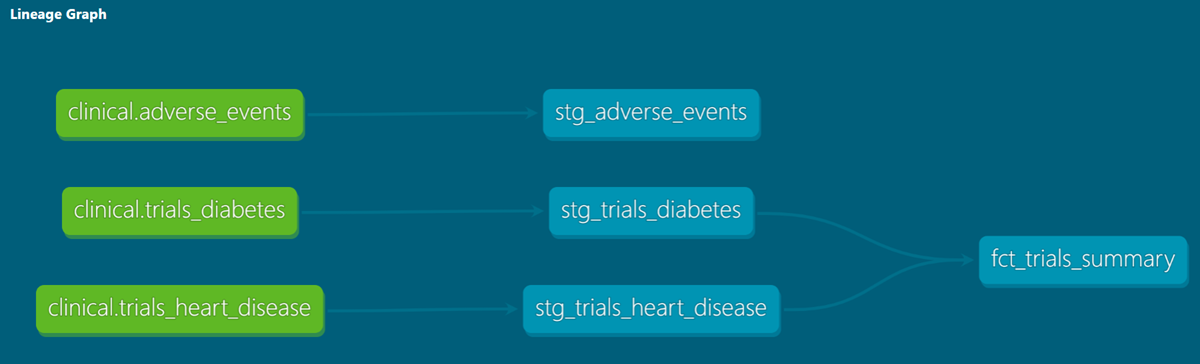
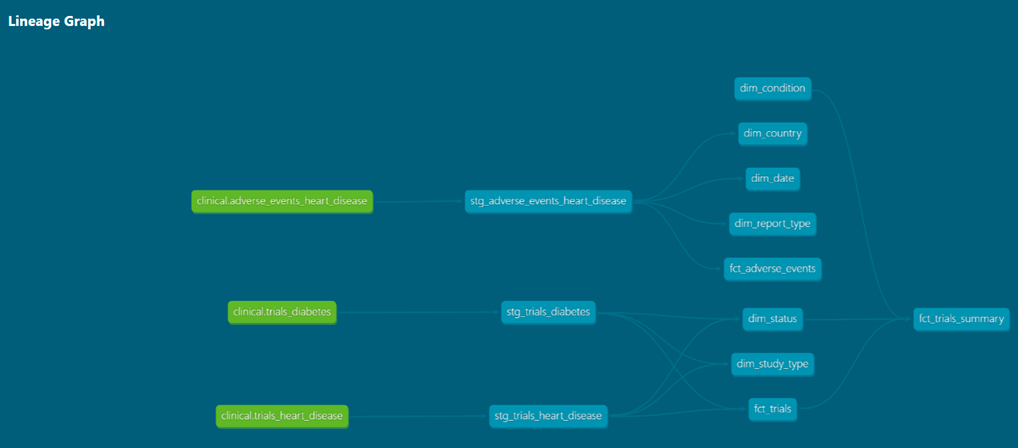
docs: overhaul README to reflect Iceberg lakehouse and both star schemas

diff --git a/README.md b/README.md
@@ -1,6 +1,6 @@
 # Clinical Data Platform
 
-An end-to-end **ELT pipeline** that ingests public clinical-trial and adverse-event data, lands it in **AWS S3**, and transforms it with **dbt** into analytics-ready models — orchestrated with **Airflow**, queried through **Athena**, and provisioned with **Terraform**.
+An end-to-end **ELT pipeline** that ingests public clinical-trial and adverse-event data, lands it in **AWS S3**, and transforms it with **dbt** into two dimensional star schemas on **Apache Iceberg** — orchestrated with **Airflow**, queried through **Athena**, and provisioned with **Terraform**.
 
 > Built as a hands-on data-engineering project. It mirrors a pattern from my background in clinical data management: the cross-source reconciliation and quality checks I used to write by hand are now version-controlled **dbt tests** that run automatically on every build.
 
@@ -21,7 +21,7 @@ flowchart LR
     subgraph Lake["AWS S3 · Data Lake"]
         RAW[("raw/ · JSON<br/>immutable · bronze")]
         STG[("staging/ · Parquet<br/>cleaned · silver")]
-        MART[("marts/ · Parquet<br/>business logic · gold")]
+        MART[("marts/ · Iceberg + Parquet<br/>business logic · gold")]
     end
 
     FET -->|archive raw| RAW
@@ -36,18 +36,29 @@ flowchart LR
 
     subgraph Transform["Transformation · dbt"]
         DSTG[staging models]
-        DMART[marts · fct_trials_summary]
-        ATH --> DSTG --> DMART
+        DIMS[6 dimensions]
+        FCT1[fct_trials · Iceberg]
+        FCT2[fct_adverse_events · Iceberg]
+        AGG[fct_trials_summary]
+        ATH --> DSTG
+        DSTG --> DIMS
+        DSTG --> FCT1
+        DSTG --> FCT2
+        FCT1 --> AGG
+        DIMS --> AGG
     end
 
-    DMART -->|CTAS via dbt| MART
+    DIMS --> MART
+    FCT1 --> MART
+    FCT2 --> MART
+    AGG --> MART
 ```
 
 *Airflow orchestrates the ingestion DAG (fan-in to the Glue crawler). Terraform provisions all AWS infrastructure. GitHub Actions runs CI on every push.*
 
-*S3 + Glue Catalog + Athena together form a **lakehouse-style** architecture: open-format Parquet files in object storage with a SQL/table layer on top — no separate warehouse. (Plain Parquet, not an ACID table format like Iceberg/Delta — see roadmap.)*
+*S3 + Glue Catalog + Athena + **Iceberg** together form a **lakehouse**: open-format files in object storage, a SQL/table layer on top, and ACID table semantics (atomic writes, `MERGE`, snapshot isolation, time travel) on the fact tables — no separate warehouse.*
 
-**Flow:** Python fetchers pull data from the ClinicalTrials.gov and OpenFDA APIs. Each raw response is archived as **JSON in S3 `raw/`** (an immutable, replayable copy), then converted to **Parquet and landed in S3 `staging/`**. A **Glue crawler** catalogs `staging/` into the Glue Data Catalog, so **Athena** can query it via schema-on-read. **dbt** then models the data: a **staging** layer cleans and standardizes each source, and a **marts** layer applies business logic and aggregation, materializing its output back to S3 under `marts/`.
+**Flow:** Python fetchers pull data from the ClinicalTrials.gov and OpenFDA APIs. Each raw response is archived as **JSON in S3 `raw/`** (an immutable, replayable copy), then converted to **Parquet and landed in S3 `staging/`**. A **Glue crawler** catalogs `staging/` into the Glue Data Catalog, so **Athena** can query it via schema-on-read. **dbt** then models the data: a **staging** layer cleans and standardizes each source, and a **marts** layer builds two star schemas plus an aggregate, materializing its output back to S3 under `marts/`.
 
 ---
 
@@ -57,6 +68,7 @@ flowchart LR
 |---|---|
 | Ingestion | Python, `requests`, `boto3` |
 | Storage / Lake | AWS S3 — medallion: `raw/` (JSON), `staging/` + `marts/` (Parquet) |
+| Table format | Apache Iceberg (fact tables) |
 | Catalog / Query | AWS Glue (crawler + Data Catalog), Athena |
 | Transformation | dbt (staging → marts, tests, docs/lineage) |
 | Orchestration | Apache Airflow (Dockerized) |
@@ -70,14 +82,18 @@ flowchart LR
 **Medallion layout in S3.** Three prefixes, each its own layer, kept separate so they never collide:
 - **`raw/` (JSON)** — write-once, immutable source of truth. If a downstream transform breaks or a schema changes, the pipeline can be reprocessed from here without re-calling the APIs (which rate-limit and change over time).
 - **`staging/` (Parquet)** — cleaned, columnar, query-ready. This is the *only* prefix the Glue crawler scans, which keeps the catalog clean (one format per prefix → one table per folder).
-- **`marts/` (Parquet)** — business-logic output (gold). dbt materializes `fct_trials_summary` here as a table via `CREATE TABLE AS SELECT`. The crawler does **not** scan this prefix — dbt registers these tables in the catalog itself, so dbt and the crawler never fight over the same tables.
+- **`marts/` (Iceberg + Parquet)** — business-logic output (gold). dbt writes here and registers the tables in the catalog itself, so dbt and the crawler never fight over the same tables.
 
 **Schema-on-read.** Athena stores nothing. The Glue crawler scans `staging/` and writes table definitions — location, schema, and format — into the Glue Data Catalog. At query time Athena reads the catalog, then reads the Parquet files straight from S3. Nothing is ever loaded into a database.
 
 **dbt transformation.**
 - **Staging** models mirror each raw source one-to-one, flatten nested fields to snake_case, and standardize types. Materialized as **views**. This layer uses dbt `source()`.
-- **Marts** apply business logic. `fct_trials_summary` combines the two trials sources with a `UNION` (they share a schema; no shared key exists for a join) and aggregates trial counts and total enrollment by condition and overall status. Materialized as a **table** written to `marts/`. This layer uses dbt `ref()`.
-- **Tests** (`not_null`, `unique`, `accepted_values`) run on every build across both layers — the automated equivalent of the manual reconciliation checks behind a clinical database lock.
+- **Marts** apply business logic as **two star schemas**, since trials and adverse events share no common key:
+  - **`fct_trials`** — grain is one row per **trial × condition** (a trial studying comorbid conditions legitimately appears twice). Built by `UNION ALL` of the two trials staging models. Conformed to `dim_condition`, `dim_status`, `dim_study_type`.
+  - **`fct_adverse_events`** — grain is one row per **safety report**, with three boolean measures. Conformed to `dim_country` (**role-playing** — joined twice, as reporting country and country of occurrence), `dim_date`, `dim_report_type`.
+  - **`fct_trials_summary`** — an aggregate over `fct_trials`, joined back to `dim_condition` and `dim_status` for labels, giving trial counts and total enrollment.
+- **Materializations** are chosen per model: staging as **views**; both fact tables as **Iceberg incremental `merge`**, so reruns upsert on the unique key instead of duplicating rows; dimensions and the aggregate as plain **tables**, since they rebuild fully and merge semantics would buy nothing.
+- **Tests** run on every build across both layers — `not_null`, `unique`, `accepted_values`, `unique_combination_of_columns` on the composite grain of `fct_trials`, and **`relationships`** foreign-key checks from both fact tables to every dimension. Those last ones are the automated equivalent of the manual reconciliation checks behind a clinical database lock.
 
 **Orchestration.** The Airflow DAG fetches all three sources in parallel, archives raw, converts and uploads to staging, then **fans in** to a single Glue-crawler trigger once all uploads complete.
 
@@ -114,8 +130,8 @@ cd terraform && terraform init && terraform apply
 cd airflow && docker compose up
 
 # dbt (from inside clinical_dbt/, with venv active)
-dbt run
-dbt test
+dbt deps
+dbt build          # run + test
 dbt docs generate && dbt docs serve --port 8081
 ```
 
@@ -124,7 +140,7 @@ dbt docs generate && dbt docs serve --port 8081
 ## Next steps / roadmap
 
 - **Stateless S3 tasks.** The DAG currently passes *local file paths* between tasks, which assumes a shared filesystem (fine on LocalExecutor, but breaks under distributed executors like Celery/Kubernetes). Refactor to write to and read from S3 directly, passing S3 keys so tasks are stateless and portable.
-- **Adverse-events mart.** Build the second star (e.g. counts by country, seriousness rate) — no shared key with trials, so it stands alone.
-- **Stronger CI.** Have GitHub Actions run `dbt build` (compile + run + test) on every push, not just a version check.
-- **Rename the adverse-events prefix/table** to reflect that it is a heart-disease-filtered slice.
-- **ACID table format.** Migrate marts to Apache Iceberg for atomic writes, snapshot isolation, time travel, and safe schema evolution — turning the lakehouse-style setup into a full lakehouse.
+- **Incremental predicates.** The fact models use `incremental` + `merge`, which makes reruns idempotent, but they still re-scan the full source each run. Add `is_incremental()` watermark filters so the scan shrinks as well as the write.
+- **Stronger CI.** Have GitHub Actions run `dbt build` (compile + run + test) on every push, not just `dbt parse`. Needs an AWS credentials strategy.
+- **Rename the adverse-events mart** to reflect that it is a heart-disease-filtered slice — the S3 prefixes already say `heart_disease`, the model name does not.
+- **S3 lifecycle rule** on `athena-results/` to expire query output.
